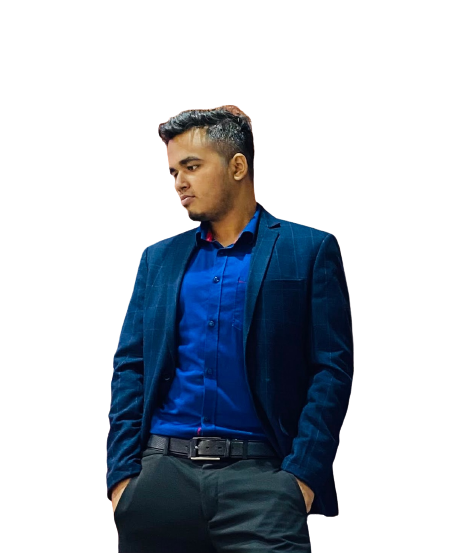
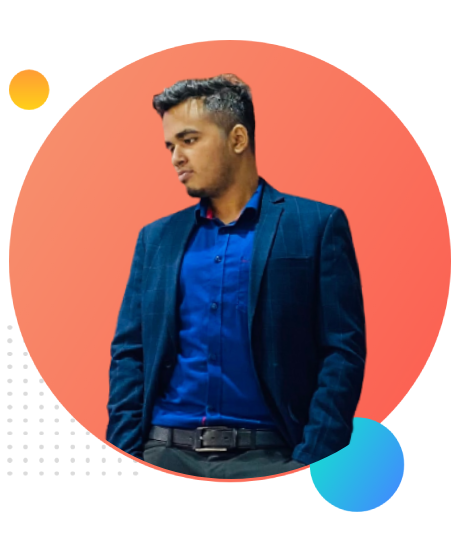
Part 2

diff --git a/index.html b/index.html
@@ -32,7 +32,19 @@
 
  </section>
 
+<section class="dream-big">
+    <div class="half-width">
+        <img src="images/blue.jpg" alt="">
+    </div>
 
+    <div class="half-width">
+<h1>Dream Big </h1>
+<h2> Become a Web Developer</h2>
+<p>I already learned the basic HTML and CSS. I can build any simple website. I can even teach my grandma how to make simple website. My goal is to build 3 websites and learn advanced topics.</p>
+<a class="link-button"  target="_blank" href="">DOWNLOAD RESUME</a>
+
+    </div>
+</section>
  
     
 </body>

diff --git a/style.css b/style.css
@@ -17,12 +17,13 @@ h1{
 }
 section{
     display: flex;
+    margin: 100px;
 }
 .half-width{
     width: 50%;
 }
 .half-width img{
-    width: 100%;
+    width: 70%;
     padding: 5%;
 
 }
@@ -39,4 +40,9 @@ section{
     background-image: url(images/top-banner.png);
     background-repeat: no-repeat;
 
+}
+.dream-big{
+    background-image: url(images/dream-bg.png);
+    background-repeat: no-repeat;
+    background-position: right;
 }
